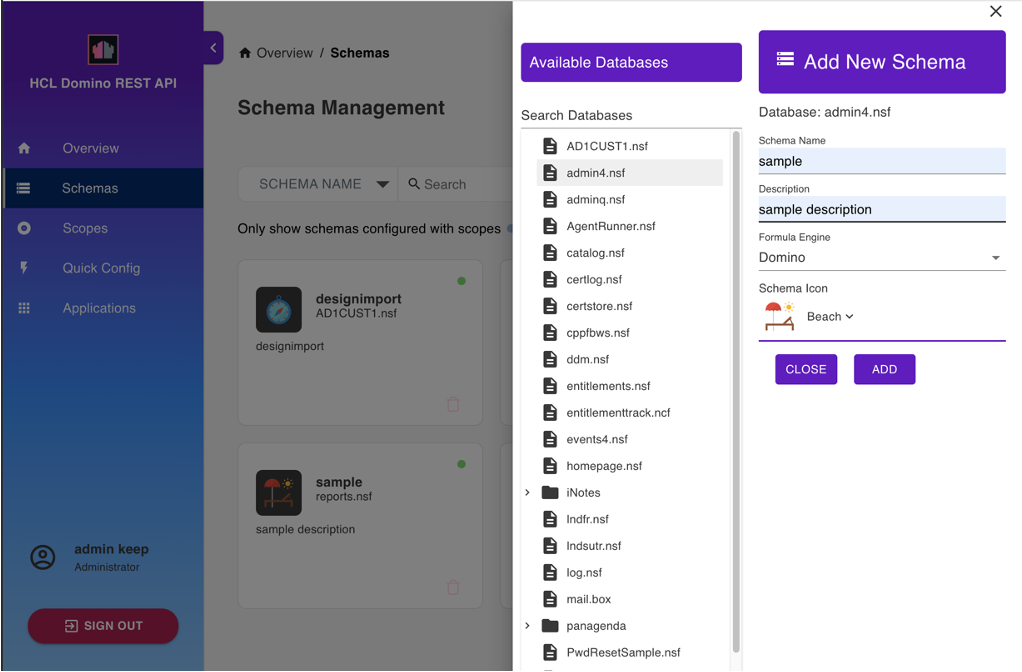
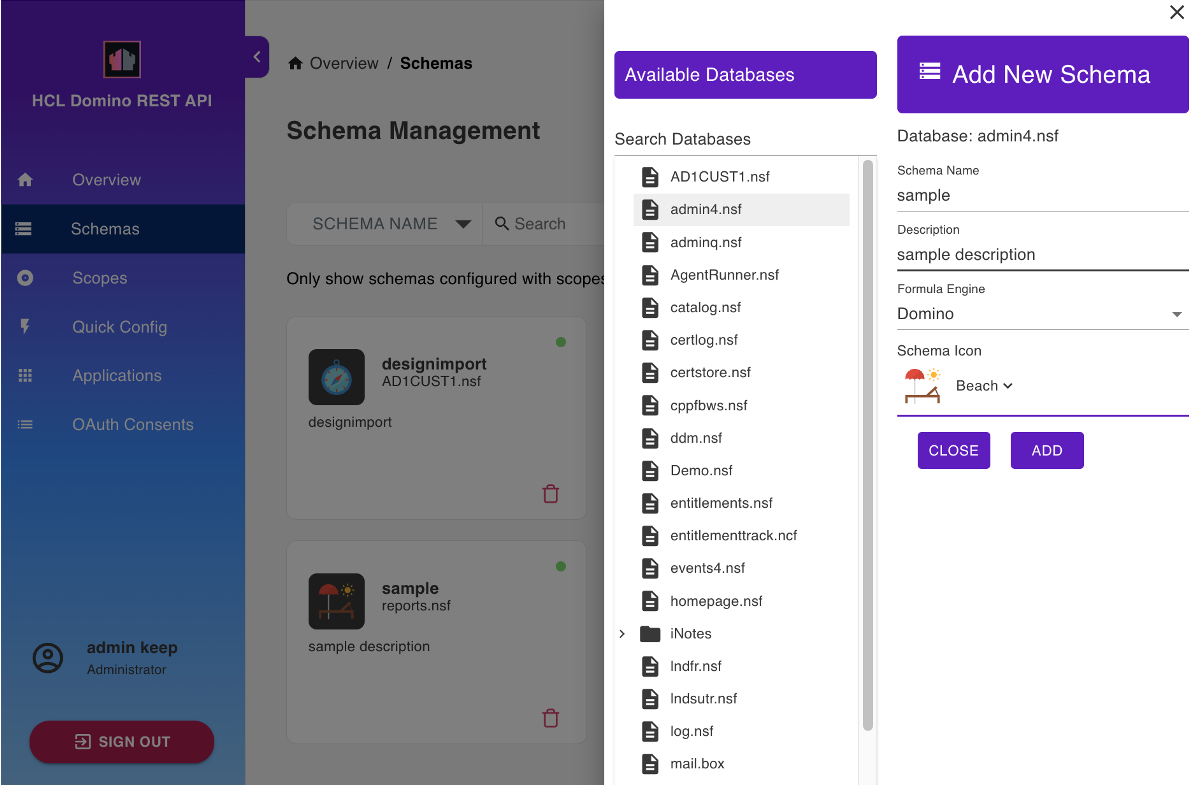
updated images, layout, links

diff --git a/docs/references/usingdominorestapi/administrationui.md b/docs/references/usingdominorestapi/administrationui.md
@@ -32,30 +32,55 @@ Click the **Schemas** navigation pane and the  **Schema Management** page shows 
 
 You can arrange the schemas in **Stack View**, **Card View**, **Alphabetical View**, or **NSF View**. There is also a provision to search through the list either via **Schema Name** or **NSF Name**.
 
-
 ### Add a schema
+
+The shape of data available is referred to as a schema. The schema is a JSON file in the design resources of the database. It gets created by a developer with Designer access to the NSF.
+
+This creates an alias to the schema. This, along with a scope, provides access to the database via the Domino REST API. One NSF can have multiple schemas, which is useful to provide different data sets or different levels of access to data.
+
+You can add a schema by [creating your own schema](#create-a-schema) or [importing a schema](#import-a-schema).
+
+#### Create a schema
 
 1. On the **Schema Management** page, click **Add Schema**.
 
       ![Add schema](../../assets/images/addSchema.png)
 
-2. Select **Create a schema**.
+2. In the **Add New Schema** dialog, click **Create Schema**.
 
-      ![Create a schema ](../../assets/images/createSchema.png)
+      ![Create a schema ](../../assets/images/createSchema.png){: style="height:80%;width:80%"}   
 
-      The shape of data available is referred to as a schema. The schema is a JSON file in the design resources of the database. It gets created by a developer with Designer access to the NSF.
-
-      This creates an alias to the Schema. This, along with a Scope, provides access to the database via the Domino REST API.
-      One NSF can have multiple Schemas which is useful to provide different data sets or different levels of access to data.
+3. Under **Available Databases**, select a database from the list of databases available to the Domino REST API.
 
       ![Create Database Form](../../assets/images/AddSchemaForm.PNG)
 
-2. Under **Available Databases**, select a database from the list of databases available to the Domino REST API.
-
       You can search for a database by clicking **Search Databases** and entering the database name. This filters the list of available databases based on the entered database name. Click the clear icon to remove the entered database name. 
 
-3. Under **Add New Schema**, enter details in the **Schema Name** and **Description**, and then select the **Formula Engine** and **Schema Icon** for the schema you want to create.
-4. Click **Add**.
+4. Under **Add New Schema**, enter details in the **Schema Name** and **Description**, and then select the **Formula Engine** and **Schema Icon** for the schema you want to create.
+5. Click **Add**.
+
+#### Import a schema <!--to a database-->
+
+Use this option if you want to import a new schema from a JSON file produced by [exporting database schema as JSON file](../../howto/database/exportsourcejson.md).
+
+<!--Use this option if you have a schema that you want to share across multiple databases or even into the same database. Follow the procedure of exporting a schema here [Export database schema as JSON file ](../../howto/database/exportsourcejson.md).-->
+
+1. On the **Schema management page**, click **Add Schema**.
+2. In the **Add New Schema** dialog, click **Import Schema**.
+      
+      <!--![import schema](../../assets/images/importSchema.png)-->
+
+3. Select the JSON database file and click **Open**. The JSON database file is the exported file from another database or within your server.
+
+4. In the **Import Schema** dialog:
+      1. Choose the `.nsf` database from the **Import Into Database** dropdown list. The default `.nsf` is from the imported database JSON file.
+      2. Update the **Icon**, **Schema Name**, **Schema Description**, and **Formula Engine** as needed. 
+      3. Click **Save Schema**. 
+      
+The `nsf` database file and schema are added to the schema list.
+
+!!!note   
+    The imported schema name must be unique. You'll be warned if you try to save a schema to a database that already has a schema with the same name.
 
 ### Edit a schema
 
@@ -78,38 +103,16 @@ You can arrange the schemas in **Stack View**, **Card View**, **Alphabetical Vie
       |Allow Decryption|*feature under development*|
       |Require Revision|Enable the setting to require the provision of the correct revision version of the document to update the document through an update endpoint.|
 
-      - DQL Formula - Enter a valid Notes formula to limit DQL usage. The formula must evaluate to @TRUE for DQL to be allowed. Default is @TRUE meaning no limitations.
+      - You can enter a valid Notes formula in **DQL Formula** to limit DQL usage. The formula must evaluate to `@TRUE` for DQL to be allowed. The default is `@TRUE`, which means no limitations.
 
         ![Edit schema dialog](../../assets/images/editschema1.png){: style="height:80%;width:80%"}
 
 4. Click **Save**. 
 
-### Import schema to a database
-
-Use this option if you have a schema that you want to share across multiple databases or even into the same database. Follow the procedure of exporting a schema here [Export database schema as JSON file ](../../howto/database/exportsourcejson.md).
-
-1. On the **Schema management page**, click **Add Schema**.
-2. Click **Import Schema** on the **Add New Schema** dialog box.
-      
-      ![import schema](../../assets/images/importSchema.png)
-
-3. Select the `.json` database file and click **Open**. This is the exported file from other database or within your server.
-4. Choose the `.nsf` database from the dropdown list of the **Database to import to**.  The default `.nsf` is from the imported database `json` file.
-5. You may change the **Icon**.
-6. You may change the **Schema name**. The default **schema name** comes from the imported schema name.
-7. You may change the **Description**. The default description comes from the imported schema name.
-8. Choose from the list of **Formula Engine**. Default is `Domino`.
-9. Click **Save Schema**. The `nsf` database file and schema are being added to the schema list.
-
-!!!warning "Important notice"   
-      The imported schema name must be unique, you will be warned if you try to save a schema to a database that already has a schema named the same.
-
-
-
 ### List available forms
 
-1. Select a schema from the list of schemas and the details for it will load.
-2. Select **Database Forms** from the menu var to show the list of all the Forms for the selected database schema.
+1. Select a schema from the list of schemas to load the details.
+2. Select **Database Forms** from the menu bar to show the list of all the forms for the selected database schema.
 
       ![Database Schema](../../assets/images/insideSchema.png)
       <!--![List Forms](../../assets/images/ListOfForms1.png)-->
@@ -199,19 +202,13 @@ Use this function to see the differences between the modes of a selected form. T
 3. Select the modes to compare from the drop-down lists in the comparison columns. The comparison result is displayed. 
 
 ![Compare Mode](../../assets/images/compareMode.png)
-
-The comparison result shows the following:
-
-- number of fields of each mode
-- common fields between the compared modes 
-- fields not existing in the respective modes
  
 !!!note 
-    A field available in only one mode is highlighted, and then indicated as **Field not existing** in the other mode. 
-
+    - A field available in only one mode is highlighted, and then indicated as **Field not existing** in the other mode. 
+    - Fields with differences are highlighted. 
 
 !!!tip
-    - Click the **Show only fields with differences** toggle to only show fields that aren't available in the compared modes.
+    - Click the **Show only fields with differences** toggle to only show fields with differences.
     - In case there are too many fields, and you want to find a specific field, you can enter the field name in the **Search Field** to only display the specific field if available.
     - Click **Add New Column** to add more modes in the comparison. 
     - Click the close icon to close the **Mode Compare - <form name\>** page.    
@@ -219,7 +216,7 @@ The comparison result shows the following:
 
 ### List available views
 
-1. Select a schema from the list of schemas and the details for it will load.
+1. Select a schema from the list of schemas to load the details.
 2. Select **Database Views** from the menu bar. This lists all the views for the selected schema.
 
       ![List Views](../../assets/images/ListOfViews1.png)
@@ -255,7 +252,7 @@ The comparison result shows the following:
 
 ### List available agents
 
-1. Select a schema from the list of schemas and the details for it will load.
+1. Select a schema from the list of schemas to load the details.
 2. Select **Database Agents** from the menu bar. This lists all the Agents for the selected database.
 
 

diff --git a/docs/references/whatisnew.md b/docs/references/whatisnew.md
@@ -28,12 +28,13 @@ The section provides the information related to Domino REST API.
 
     - Added endpoint `GET v1/attachmentnames/{unid}` to return a list of attachments attached to this document.
     - Added endpoint `GET v1/preview` to list endpoints that are marked as preview, may be considered beta endpoints.
-    - Added ability to view and revoke OAuth consents in the AdminUI via the [OAuth Consents](../references/usingdominorestapi/administrationui.md#view-the-oauth-consent-list) pane.
+    - Added ability to view and revoke OAuth consents in the AdminUI via the [OAuth Consents](../references/usingdominorestapi/administrationui.md#oauth-consents) pane.
     
     **Improvements**
 
-    - Added the ability to [clone form modes](../references/usingdominorestapi/administrationui.md#clone-mode) and [compare form modes](../references/usingdominorestapi/administrationui.md#compare-mode) in the AdminUI.
-    - Added the ability to [export a schema](../howto/database/exportsourcejson.md) and [import a schema](../references/usingdominorestapi/administrationui.md#import-schema-to-a-database) in the AdminUI. 
+    - Added the ability to [clone form modes](../references/usingdominorestapi/administrationui.md#clone-a-mode) and [compare form modes](../references/usingdominorestapi/administrationui.md#compare-modes) in the AdminUI.
+    - Added the ability to [export a schema](../howto/database/exportsourcejson.md) and [import a schema](../references/usingdominorestapi/administrationui.md#import-a-schema) in the AdminUI.
+    - Added search feature in **Schema Management** to easily look for forms, views, and agents.  
     
     **Resolved Issues**
 

diff --git a/docs/howto/database/exportsourcejson.md b/docs/howto/database/exportsourcejson.md
@@ -2,7 +2,7 @@
 
 ## About this task
 
-The procedure guides you on exporting the database schema in JSON format from the **Source** tab on the **Schema Management** page.
+The procedure guides you on exporting the database schema in JSON format from the **Source** tab on the **Schema Management** page so you can share the database schema across databases.
 
 ## Prerequisite
 
@@ -20,4 +20,4 @@ A JSON file containing the Source text is downloaded to your default download lo
 <!--The export button downloads the Source text in .json format with a filename *selected schema*.json (e.g,reportschema.json).--> 
 
 !!!tip
-    For information on importing a schema, see [Import schema to a database](../../references/usingdominorestapi/administrationui.md#import-schema-to-a-database).
+    For information on importing a schema, see [Import a schema](../../references/usingdominorestapi/administrationui.md#import-a-schema).
